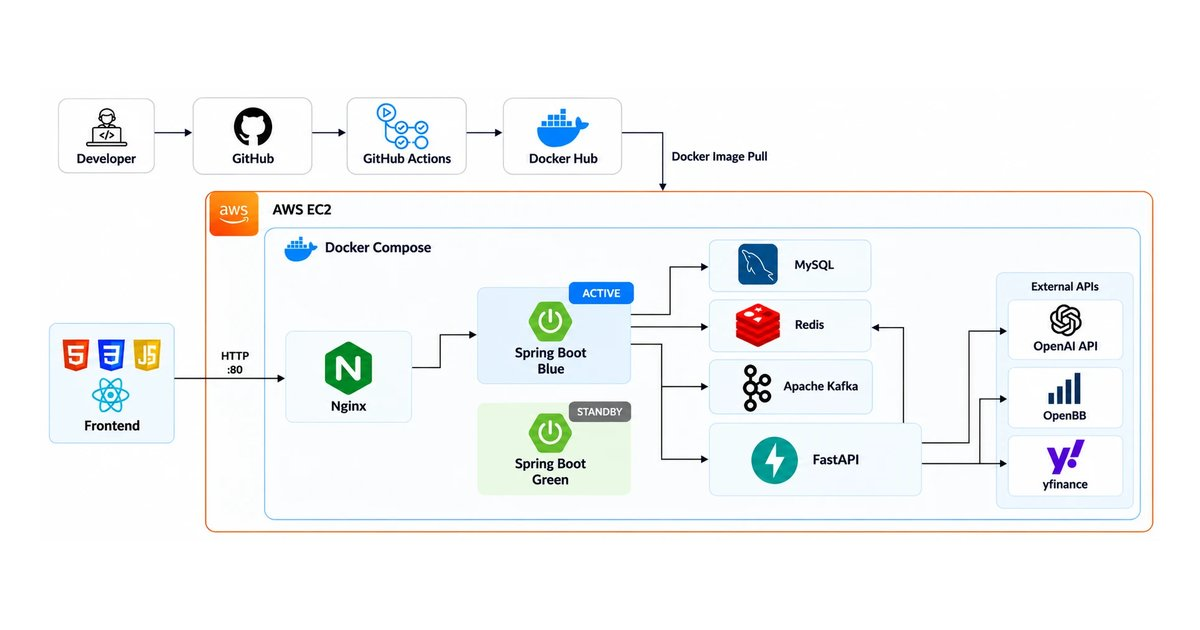
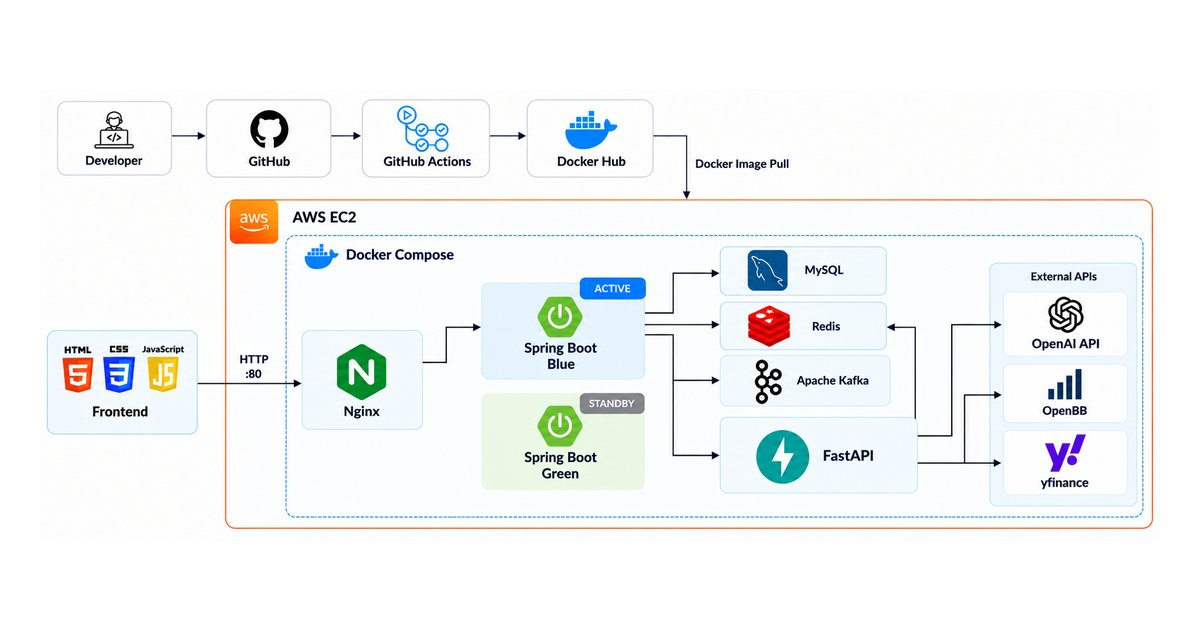
feat: update portofilo

Changed region(s): [[0.0308, 0.1508, 0.9558, 0.8444], [0.37, 0.5127, 0.4008, 0.5429]]

diff --git a/marketpoke.html b/marketpoke.html
@@ -4,7 +4,7 @@
   <meta charset="UTF-8">
   <meta name="viewport" content="width=device-width, initial-scale=1.0">
   <title>Market Poke | 박형우 포트폴리오</title>
-  <meta name="description" content="POS·상권·외부 데이터를 기반으로 매출 변화 원인을 분석하고, AI가 대응 전략을 추천한 뒤 정책 평가와 실행 후 효과 검증까지 수행하는 매출 분석·의사결정 지원 시스템입니다.">
+  <meta name="description" content="POS·상권·외부 데이터를 기반으로 매출 변화 원인을 분석하고, AI가 대응 전략을 추천한 뒤 정책 평가와 실행 후 효과 추정까지 수행하는 매출 분석·의사결정 지원 시스템입니다.">
   <meta property="og:type" content="website">
   <meta property="og:title" content="Market Poke | 박형우">
   <meta property="og:description" content="장시간 AI 분석 작업을 Celery Worker로 격리하고, Job 상태 관리와 장애 처리를 설계한 매출 분석 플랫폼">
@@ -41,7 +41,7 @@
   <div class="d-eyebrow">Team Project · 2026.06 – 2026.08</div>
   <h1 class="d-title">Market Poke <small>마켓포케</small></h1>
   <p class="d-lead">장시간 AI 분석 작업을 Celery Worker로 격리하고, Job 상태 관리와 장애 처리를 설계한 매출 분석 플랫폼</p>
-  <p class="d-sub">POS·상권·외부 데이터를 기반으로 매출 변화 원인을 분석하고, AI가 대응 전략을 추천한 뒤 정책 평가와 실행 후 효과 검증까지 수행하는 매출 분석·의사결정 지원 시스템입니다.</p>
+  <p class="d-sub">POS·상권·외부 데이터를 기반으로 매출 변화 원인을 분석하고, AI가 대응 전략을 추천한 뒤 정책 평가와 실행 후 효과 추정까지 수행하는 매출 분석·의사결정 지원 시스템입니다.</p>
   <p class="d-meta">KT AIVLE School 9기 AI 개발자 트랙 빅프로젝트 (6인) · 팀장 · 기여도 30%<br><strong>KT AIVLE School Big Project Collaboration상</strong></p>
   <div class="d-actions"><a href="#demo" class="primary">▶ 시연 영상 보기</a><a href="https://github.com/AIVLE-07-20-big-project" target="_blank" rel="noopener">↗ GitHub</a></div>
 </header>
@@ -60,7 +60,7 @@
     <div class="section-label">Project</div>
     <h2 class="d-section-title">프로젝트 소개</h2>
     <h3 class="subhead">주제</h3>
-    <p class="body-text">POS·상권·기상·유동인구·행사 데이터를 결합해 매장의 매출 변화 원인을 분석하고, AI가 대응 전략을 추천합니다. 추천된 전략은 담당자 승인을 거쳐 실행되며, 실행 이후 실제 매출과 고객 반응까지 검증하는 흐름으로 설계했습니다.</p>
+    <p class="body-text">POS·상권·기상·유동인구·행사 데이터를 결합해 매장의 매출 변화 원인을 분석하고, AI가 대응 전략을 추천합니다. 추천된 전략은 담당자 승인을 거쳐 실행되며, 실행 이후 실제 매출과 고객 반응 변화까지 추정하는 흐름으로 설계했습니다.</p>
     <h3 class="subhead">주요 기능</h3>
     <div class="feats"><div class="feat-col"><h4>사용자 기능</h4><ul><li>가계부 및 발주 관리</li><li>매장별 맞춤 전략 추천</li><li>O2O 매장 및 커머스</li><li>리뷰 분석</li></ul></div><div class="feat-col"><h4>관리자 기능</h4><ul><li>신규 가맹점 영업 타겟 추천</li><li>관리자 게시판</li></ul></div></div>
     <h3 class="subhead">전체 아키텍처</h3>
@@ -89,10 +89,10 @@
       <a href="assets/projects/marketpoke-job.webp" target="_blank" rel="noopener"><img src="assets/projects/marketpoke-job.webp" alt="Job 상태 전이 - Celery Beat가 60초 주기로 정체 작업을 정리"></a>
       <figcaption class="figure-caption">Job 상태 전이 - Celery Beat가 60초 주기로 정체 작업을 정리</figcaption>
     </figure>
-    <div class="stat-row"><div class="stat-box"><div class="stat-num">90.4% → 0%</div><div class="stat-label">분석 50건 동시 부하 시<br>일반 조회 오류율 (동기 → 비동기)</div></div><div class="stat-box"><div class="stat-num">420ms</div><div class="stat-label">부하 중 일반 조회 p95<br>(부하 없음 기준 38ms)</div></div></div>
+    <div class="stat-row"><div class="stat-box"><div class="stat-num">90.4% → 0%</div><div class="stat-label">분석 50건 동시 부하 시<br>일반 조회 Timeout 오류율 (동기 → 비동기)</div></div><div class="stat-box"><div class="stat-num">420ms</div><div class="stat-label">비동기 구조, 분석 부하 중<br>일반 조회 p95 (부하 없음 38ms)</div></div></div>
     <h3 class="subhead">LangGraph 기반 대응 전략 추천·검증 파이프라인</h3>
-    <p class="body-text">매출·리뷰 분석 결과를 기반으로 대응 전략을 생성하고, 전략 실행 이후 실제 매출과 고객 반응까지 검증하는 흐름을 상태 기반 워크플로우로 직접 설계·구현했습니다. Contextual Bandit 전략 선택 모델, RAG 근거 검색, SCM 효과 검증까지 파이프라인 전 단계를 담당했습니다.</p>
-    <div class="flow-steps"><div class="flow-step"><div class="flow-num">01</div><div class="flow-text"><strong>진단</strong> - 매출·리뷰 분석 결과로 매장 상태 진단</div></div><div class="flow-step"><div class="flow-num">02</div><div class="flow-text"><strong>전략 추천</strong> - Contextual Bandit 기반 전략 선택 모델로 후보 전략 선정</div></div><div class="flow-step"><div class="flow-num">03</div><div class="flow-text"><strong>RAG 근거 검색</strong> - BAAI/bge-m3로 벡터화한 공공·학술·플랫폼 자료에서 전략별 근거 검색</div></div><div class="flow-step"><div class="flow-num">04</div><div class="flow-text"><strong>담당자 승인</strong> - 사람이 최종 승인한 전략만 실행 단계로 진행</div></div><div class="flow-step"><div class="flow-num">05</div><div class="flow-text"><strong>리포트 생성</strong> - 검색 문서의 수치·출처만 활용해 생성하고, 생성 후 재검증해 환각 최소화</div></div><div class="flow-step"><div class="flow-num">06</div><div class="flow-text"><strong>효과 검증</strong> - SCM으로 실행 후 매출·방문객 변화를 검증</div></div></div>
+    <p class="body-text">매출·리뷰 분석 결과를 기반으로 대응 전략을 생성하고, 전략 실행 이후 실제 매출과 고객 반응 변화까지 추정하는 흐름을 상태 기반 워크플로우로 직접 설계·구현했습니다. Contextual Bandit 전략 선택 모델, RAG 근거 검색, SCM 적합도 검증과 효과 추정까지 파이프라인 전 단계를 담당했습니다.</p>
+    <div class="flow-steps"><div class="flow-step"><div class="flow-num">01</div><div class="flow-text"><strong>진단</strong> - 매출·리뷰 분석 결과로 매장 상태 진단</div></div><div class="flow-step"><div class="flow-num">02</div><div class="flow-text"><strong>전략 추천</strong> - Contextual Bandit 기반 전략 선택 모델로 후보 전략 선정</div></div><div class="flow-step"><div class="flow-num">03</div><div class="flow-text"><strong>RAG 근거 검색</strong> - BAAI/bge-m3로 벡터화한 공공·학술·플랫폼 자료에서 전략별 근거 검색</div></div><div class="flow-step"><div class="flow-num">04</div><div class="flow-text"><strong>담당자 승인</strong> - 사람이 최종 승인한 전략만 실행 단계로 진행</div></div><div class="flow-step"><div class="flow-num">05</div><div class="flow-text"><strong>리포트 생성</strong> - 검색 문서의 수치·출처만 활용해 생성하고, 생성 후 재검증해 환각 최소화</div></div><div class="flow-step"><div class="flow-num">06</div><div class="flow-text"><strong>효과 검증·추정</strong> - SCM으로 처치 전 적합도(RMSE)를 검증한 뒤, 전략 실행 후 매출 변화 효과를 추정</div></div></div>
     <figure class="figure">
       <a href="assets/projects/marketpoke-langgraph.webp" target="_blank" rel="noopener"><img src="assets/projects/marketpoke-langgraph.webp" alt="LangGraph 전략 추천·승인·검증 워크플로우"></a>
       <figcaption class="figure-caption">LangGraph 전략 추천·승인·검증 워크플로우</figcaption>
@@ -119,13 +119,32 @@
     <div class="ts-block"><div class="ts-tag">진단</div><p class="body-text">장시간 수행되는 분석 작업이 HTTP 요청 내부에서 실행되고, 분석 작업과 일반 API 요청이 동일한 실행 환경을 공유하고 있었습니다. CPU 사용량이 높은 데이터 처리와 AI 추론이 요청 처리 자원을 점유해, 분석 시간에 비례해 API 응답 시간이 증가하는 구조였습니다.</p></div>
     <div class="ts-block"><div class="ts-tag">해결</div><div>
       <div class="flow"><span class="old">기존 · Client → FastAPI → 매출 분석 → 결과 반환</span><br><span class="new">개선 · Client → FastAPI → Redis Queue → Celery Worker → 매출 분석</span></div>
-    <div class="flow-steps"><div class="flow-step"><div class="flow-num">01</div><div class="flow-text"><strong>구조 개선</strong> - FastAPI는 분석 요청을 Redis Queue에 등록한 뒤 Job ID를 즉시 반환 (접수 약 80ms)</div></div><div class="flow-step"><div class="flow-num">02</div><div class="flow-text"><strong>Worker 분리</strong> - CSV 처리·데이터 병합·통계 계산·AI 추론은 Celery Worker가 전담하고, API 서버와 독립적으로 Worker 자원을 조정할 수 있는 구조로 분리</div></div><div class="flow-step"><div class="flow-num">03</div><div class="flow-text"><strong>상태·실패 관리</strong> - Job API로 진행 상태와 결과를 조회하고, 60초 주기로 queued 20분·running 15분 초과 작업을 FAILED 처리</div></div><div class="flow-step"><div class="flow-num">04</div><div class="flow-text"><strong>Worker 자원 검증</strong> - Worker concurrency 2와 4를 비교해 CPU 2개 제한에서는 늘려도 처리 시간이 줄지 않음을 확인하고, 개수가 아니라 CPU 자원과 측정한 처리량을 기준으로 concurrency 2를 유지</div></div></div>
+    <div class="flow-steps"><div class="flow-step"><div class="flow-num">01</div><div class="flow-text"><strong>구조 개선</strong> - FastAPI는 분석 요청을 Redis Queue에 등록한 뒤 Job ID를 즉시 반환 (접수 약 80ms)</div></div><div class="flow-step"><div class="flow-num">02</div><div class="flow-text"><strong>Worker 분리</strong> - CSV 처리·데이터 병합·통계 계산·AI 추론은 Celery Worker가 전담하고, API 서버와 독립적으로 Worker 자원을 조정할 수 있는 구조로 분리</div></div><div class="flow-step"><div class="flow-num">03</div><div class="flow-text"><strong>상태·실패 관리</strong> - Job API로 진행 상태와 결과를 조회하고, 60초 주기로 queued 20분·running 15분 초과 작업을 FAILED 처리</div></div><div class="flow-step"><div class="flow-num">04</div><div class="flow-text"><strong>Worker 자원 검증</strong> - Worker concurrency 2와 4를 비교한 결과, 2 vCPU 환경이라 concurrency 증가가 처리량 향상으로 이어지지 않았습니다. 따라서 CPU 자원과 측정 처리량을 기준으로 concurrency 2를 유지</div></div></div>
     </div></div>
     <div class="ts-block"><div class="ts-tag">결과</div><div>
-    <p class="body-text" style="margin-bottom:12px">분석 50건 동시 부하에서 동기 구조의 일반 조회 오류율 90.4%를 Celery 전환 후 0%로 낮췄고, 일반 조회 p95도 10초 timeout 수준에서 420ms로 개선했습니다.</p><div class="table-wrap"><table class="result-table"><thead><tr><th>조건</th><th>일반 조회 p95</th><th>오류율</th></tr></thead><tbody><tr><td>분석 부하 없음</td><td>38ms</td><td>0%</td></tr><tr><td>동기 분석 50건</td><td>10초 (timeout)</td><td class="bad">90.4%</td></tr><tr class="hl"><td>Celery 분석 50건</td><td>420ms</td><td class="good">0%</td></tr></tbody></table></div><p class="table-note">로컬 Docker Compose · FastAPI / Celery Worker 각 2 CPU·2GB · 일반 조회 constant-arrival-rate 20 req/s · 분석 50건 동시 · 워밍업 30초 후 본측정 3분, 조건별 3회</p>
+    <p class="body-text" style="margin-bottom:12px">분석 50건 동시 부하에서 일반 조회 <strong>Timeout 오류율이 90.4% → 0%</strong>로 줄었습니다. 분석 부하 중에도 <strong>일반 조회 p95 420ms</strong>(부하 없음 38ms)를 유지했습니다.</p><div class="table-wrap"><table class="result-table"><thead><tr><th>조건</th><th>일반 조회 p95</th><th>오류율</th></tr></thead><tbody><tr><td>분석 부하 없음</td><td>38ms</td><td>0%</td></tr><tr><td>동기 분석 50건</td><td>측정 제외 (timeout 10초)</td><td class="bad">90.4%</td></tr><tr class="hl"><td>Celery 분석 50건</td><td>420ms</td><td class="good">0%</td></tr></tbody></table></div><p class="table-note">로컬 Docker Compose · FastAPI / Celery Worker 각 2 CPU·2GB · 일반 조회 constant-arrival-rate 20 req/s · 분석 50건 동시 · 워밍업 30초 후 본측정 3분, 조건별 3회</p>
     </div></div>
     <div class="ts-block"><div class="ts-tag">배운 점</div><p class="body-text">Celery의 효과는 분석을 빠르게 하는 것이 아니라 무거운 작업이 일반 요청을 막지 않도록 격리하는 것이며, 성능 지표는 해결하려는 문제에서 나와야 한다는 점을 배웠습니다.</p></div>
     </article>
+  </div>
+</section>
+
+<section id="appendix" class="">
+  <div class="page-section detail-section">
+    <div class="section-label">Appendix</div>
+    <h2 class="d-section-title">왜 Celery인가</h2>
+    <p class="body-text">이 문제에 필요한 것은 여러 서비스가 구독하는 이벤트 스트림이 아니라, <strong>요청 1건이 작업 1건이 되는 장시간 Python 작업 큐</strong>였습니다. 작업 상태를 추적하고, 너무 오래 걸리는 작업을 정리하고, CPU 자원에 맞춰 동시 실행 수를 조절할 수 있어야 했습니다.</p>
+    <div class="table-wrap"><table class="result-table"><thead><tr><th>기준</th><th>Celery + Redis</th><th>RabbitMQ</th><th>Kafka</th></tr></thead><tbody>
+      <tr><td>분석 코드 실행</td><td class="good">Python 함수를 태스크로 바로 실행</td><td>큐만 제공, Worker·재시도는 직접 구현</td><td>Consumer 루프·재시도·상태 관리 직접 구현</td></tr>
+      <tr><td>추가 인프라</td><td class="good">이미 쓰는 ElastiCache Redis를 브로커로 재사용</td><td>브로커 추가 운영</td><td>브로커 클러스터 추가 운영</td></tr>
+      <tr><td>주기 작업</td><td class="good">Celery Beat 내장 (정체 작업 정리)</td><td>별도 스케줄러 필요</td><td>별도 스케줄러 필요</td></tr>
+      <tr><td>동시 실행 조절</td><td class="good">Worker concurrency</td><td>Consumer 수</td><td>파티션 수에 묶임</td></tr>
+      <tr><td>더 적합한 경우</td><td>요청-작업 1:1 비동기 처리</td><td>복잡한 라우팅, 강한 전달 보장</td><td>여러 Consumer가 같은 이벤트를 구독·재처리</td></tr>
+    </tbody></table></div>
+    <h3 class="subhead">선택의 대가와 보완</h3>
+    <p class="body-text">Redis 브로커는 RabbitMQ보다 메시지 전달 보장이 약해, Worker가 처리 중 종료되면 작업이 유실되거나 늦게 재전달될 수 있습니다. 이를 세 가지로 보완했습니다.</p>
+    <div class="flow-steps"><div class="flow-step"><div class="flow-num">01</div><div class="flow-text"><strong>완료 후 ack</strong> - <code>task_acks_late</code>·<code>task_reject_on_worker_lost</code>로 처리 도중 Worker가 죽으면 유실 대신 재전달</div></div><div class="flow-step"><div class="flow-num">02</div><div class="flow-text"><strong>재실행 안전성</strong> - Job 상태를 MySQL(<code>ai_analysis_jobs</code>)에 두고, queued·running일 때만 전환하는 조건부 UPDATE와 INSERT IGNORE로 재전달돼도 안전하게 처리</div></div><div class="flow-step"><div class="flow-num">03</div><div class="flow-text"><strong>정체 작업 정리</strong> - Celery Beat가 60초 주기로 queued 20분·running 15분 초과 작업을 FAILED 처리하고, 실패 처리된 작업이 뒤늦게 재전달되면 실행하지 않음</div></div></div>
+    <p class="body-text">반대로 <a href="news.html">AI 뉴스 분석 시스템</a>에서는 크롤링 요청을 이벤트로 발행하고 후속 처리를 Consumer로 분리하기 위해 Kafka를 사용했습니다. 도구는 해결하려는 문제의 형태에 맞춰 선택했습니다.</p>
   </div>
 </section>
 

diff --git a/news.html b/news.html
@@ -57,7 +57,7 @@
     <h3 class="subhead">전체 아키텍처</h3>
     <p class="body-text">GitHub에 push하면 GitHub Actions가 이미지를 빌드해 Docker Hub에 올리고, AWS EC2가 이미지를 pull해 Docker Compose로 전체 서비스를 실행합니다. Nginx가 요청을 받아 Spring Boot Blue·Green 중 활성 버전으로 전달하는 Blue-Green 구조로 무중단 배포하며, Spring Boot는 MySQL·Redis·Kafka와 연동하고 FastAPI는 크롤링과 AI 분석을 맡아 OpenAI·OpenBB·yfinance 등 외부 API를 호출합니다.</p>
     <figure class="figure">
-      <a href="assets/projects/news-arch-v2.webp" target="_blank" rel="noopener"><img src="assets/projects/news-arch-v2.webp" alt="AI 뉴스 분석 시스템 아키텍처 - AWS EC2 · Docker Compose · Nginx Blue-Green · GitHub Actions → Docker Hub"></a>
+      <a href="assets/projects/news-arch-v3.webp" target="_blank" rel="noopener"><img src="assets/projects/news-arch-v3.webp" alt="AI 뉴스 분석 시스템 아키텍처 - AWS EC2 · Docker Compose · Nginx Blue-Green · GitHub Actions → Docker Hub"></a>
       <figcaption class="figure-caption">AI 뉴스 분석 시스템 아키텍처 - AWS EC2 · Docker Compose · Nginx Blue-Green · GitHub Actions → Docker Hub</figcaption>
     </figure>
     <h3 class="subhead">서비스 화면</h3>
